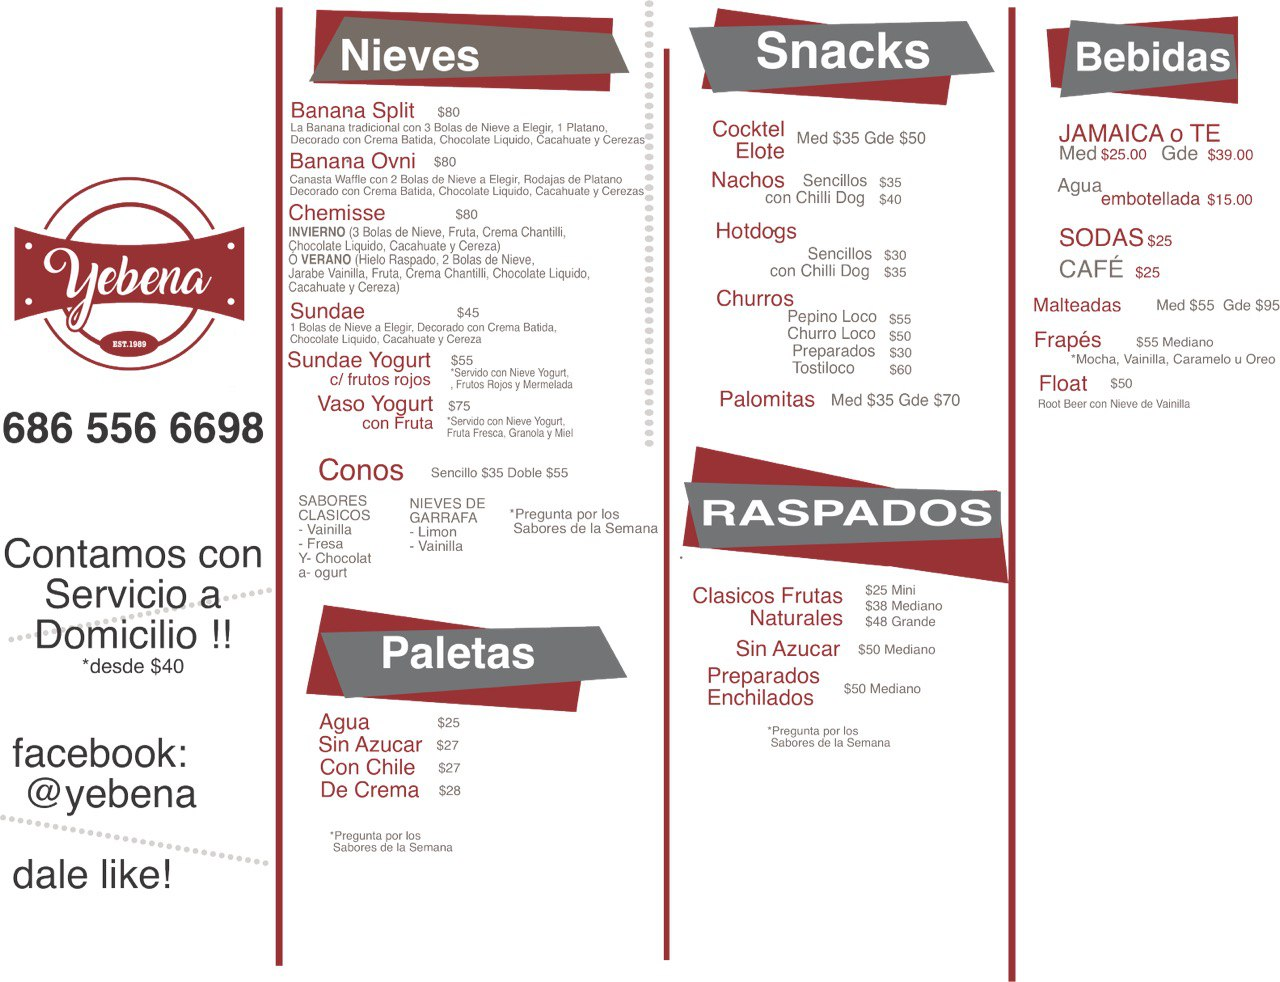
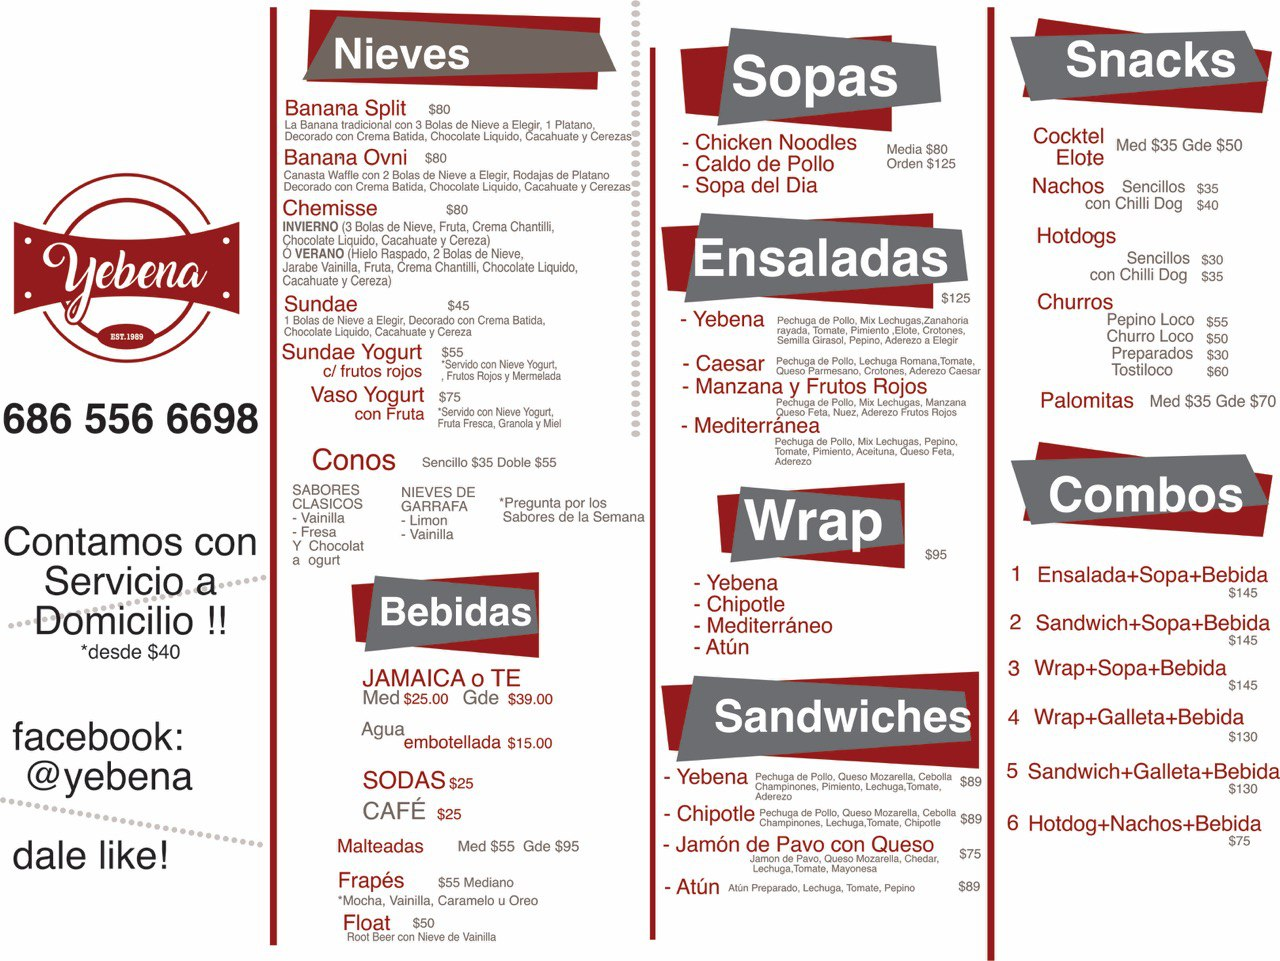
new menu

diff --git a/index.html b/index.html
@@ -18,7 +18,7 @@
     <div class="container-fluid">
         <div class="row">
             <div class="col-12">
-                <img src="assets/Menu.png" width="560">
+                <img src="assets/Menu.jpg" width="560">
             </div>
 
         </div>
